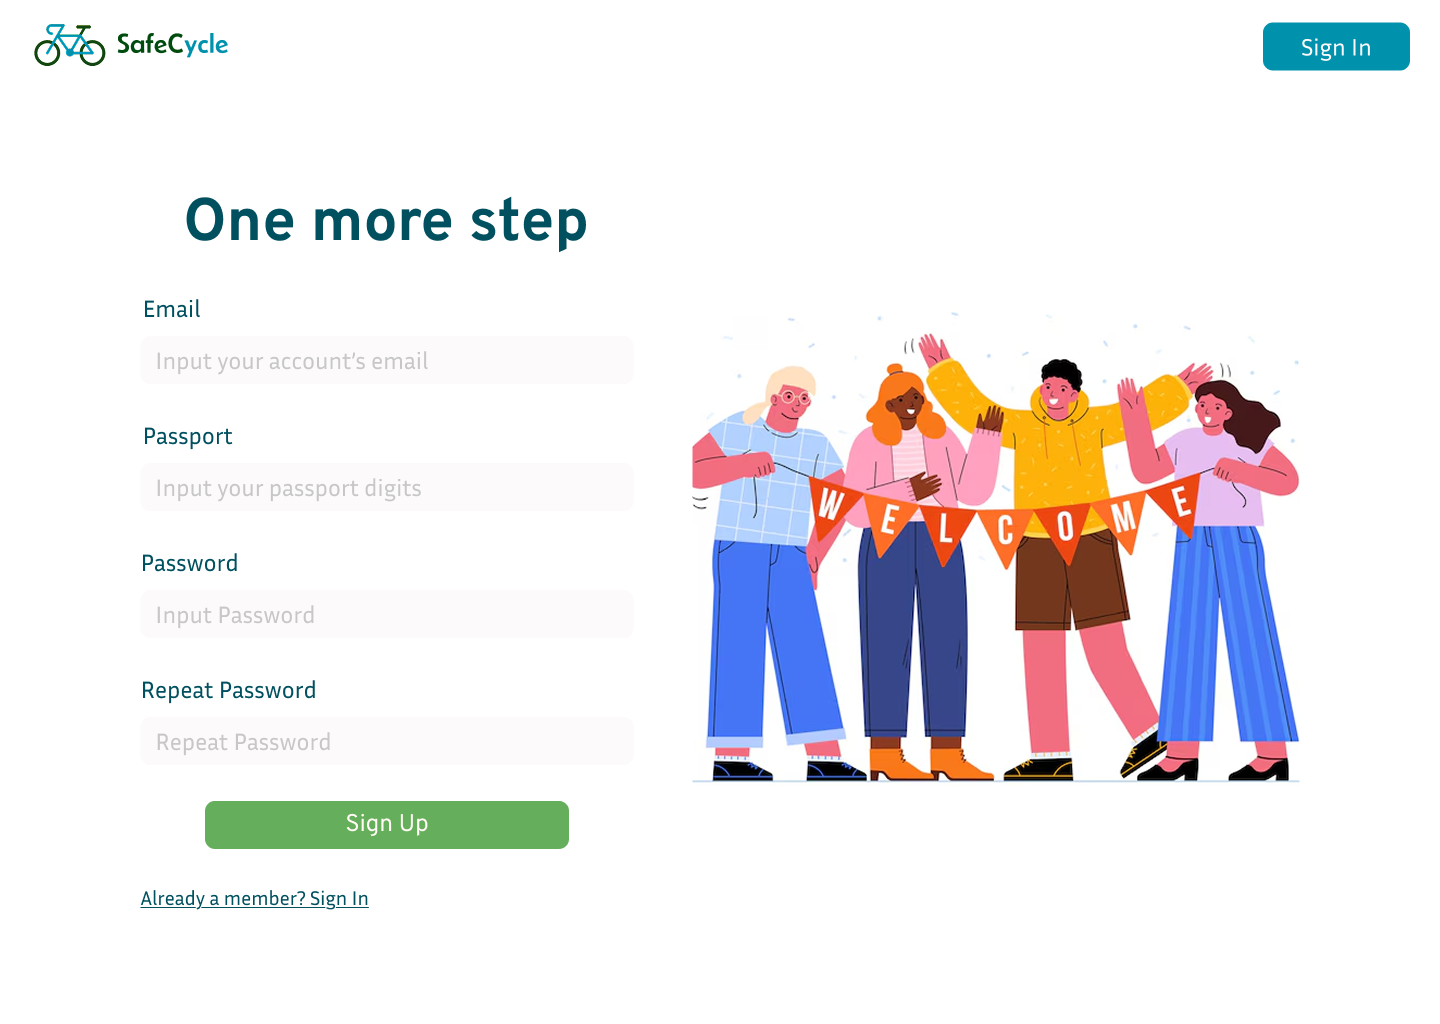
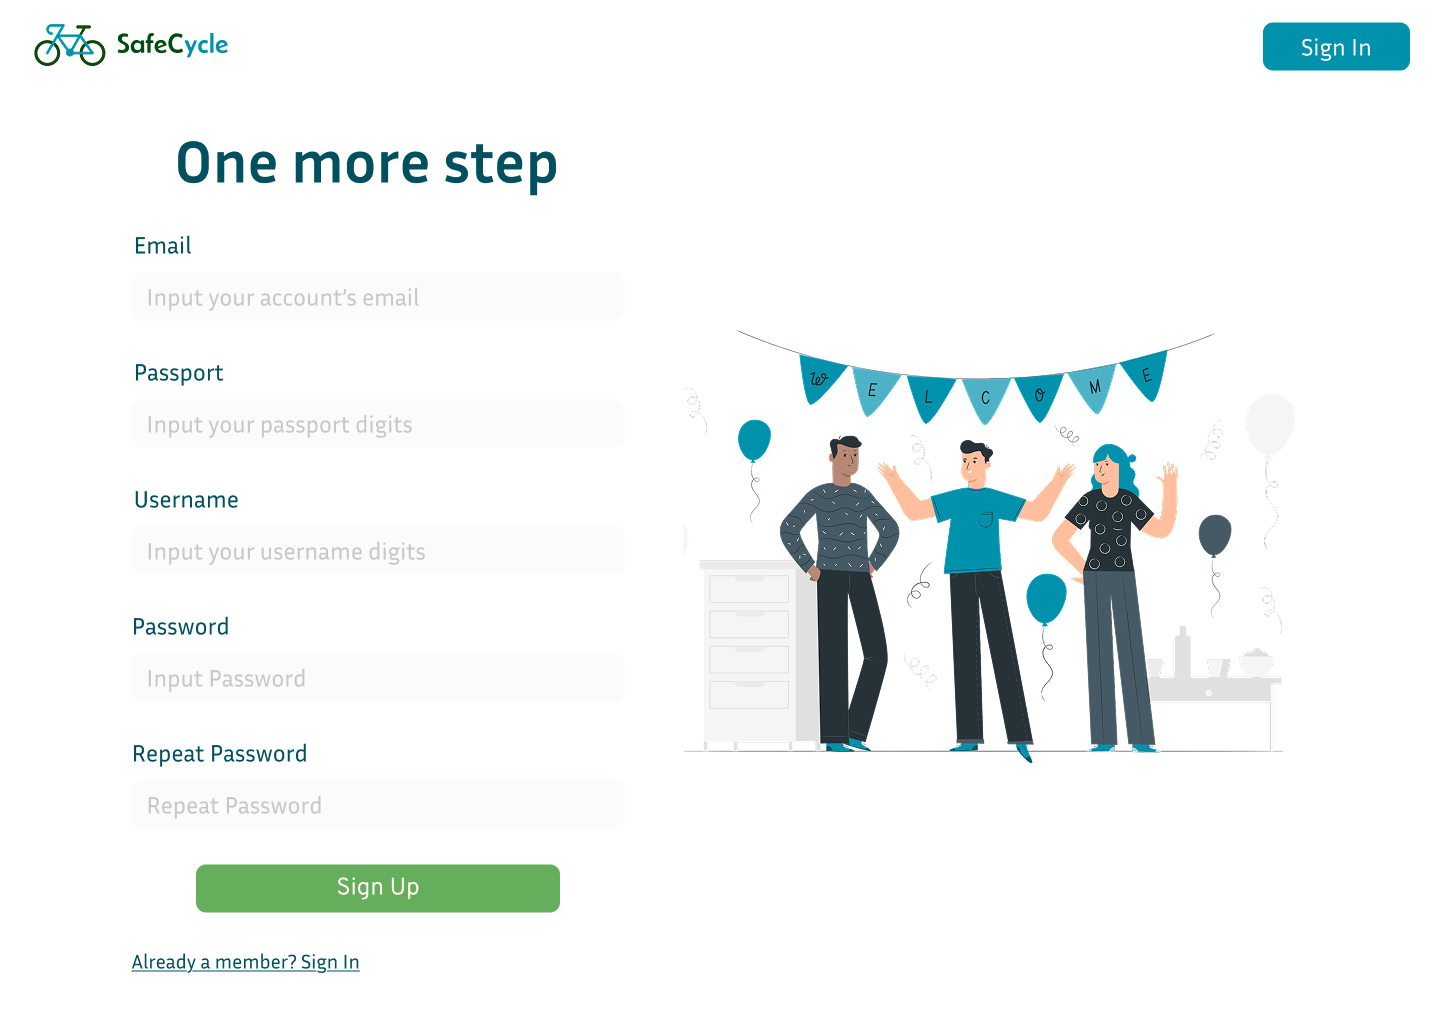
docs: update UXUI images

diff --git a/Report.md b/Report.md
@@ -141,6 +141,10 @@ Para el desarrollo de la TP1 nos hemos dividido como equipo diferentes tareas pa
     - [4.2.3. SEO Tags and Meta Tags](#423-seo-tags-and-meta-tags)
     - [4.2.4. Searching Systems](#424-searching-systems)
     - [4.2.5. Navigation Systems](#425-navigation-systems)
+      - [Páginas Principales](#páginas-principales)
+      - [Opciones de Usuario](#opciones-de-usuario)
+      - [Búsqueda y Navegación](#búsqueda-y-navegación)
+      - [Branding e Identidad](#branding-e-identidad)
   - [4.3. Landing Page UI Design](#43-landing-page-ui-design)
     - [4.3.1. Landing Page Wireframe](#431-landing-page-wireframe)
     - [4.3.2. Landing Page Mock-up](#432-landing-page-mock-up)
@@ -175,6 +179,9 @@ Para el desarrollo de la TP1 nos hemos dividido como equipo diferentes tareas pa
       - [5.2.1.6. Services Documentation Evidence for Sprint Review](#5216-services-documentation-evidence-for-sprint-review)
       - [5.2.1.7. Software Deployment Evidence for Sprint Review](#5217-software-deployment-evidence-for-sprint-review)
       - [5.2.1.8. Team Collaboration Insights during Sprint](#5218-team-collaboration-insights-during-sprint)
+  - [Conclusiones y recomendaciones](#conclusiones-y-recomendaciones)
+  - [Bibliografia](#bibliografia)
+  - [Anexos](#anexos)
 # Student Outcome
 
 | Criterio Especifico | Acciones Realizadas | Conclusiones |
@@ -706,8 +713,6 @@ La estructura de navegación de SafeCycle está diseñada para facilitar el acce
 <img src="assets/images/UXUI/mockup/Manage Bycicles Centers.png" width="400" alt="Mockup Centros de Bicicletas" />
 <img src="assets/images/UXUI/mockup/Manage Centers.png" width="400" alt="Mockup Gestión de Centros" />
 <img src="assets/images/UXUI/mockup/Perfil Developer.png" width="400" alt="Mockup Perfil de Desarrollador" />
-<img src="assets/images/UXUI/mockup/Perfil-1.png" width="400" alt="Mockup Perfil 1" />
-<img src="assets/images/UXUI/mockup/Perfil-2.png" width="400" alt="Mockup Perfil 2" />
 <img src="assets/images/UXUI/mockup/Perfil-3.png" width="400" alt="Mockup Perfil 3" />
 <img src="assets/images/UXUI/mockup/Perfil-4.png" width="400" alt="Mockup Perfil 4" />
 <img src="assets/images/UXUI/mockup/Perfil-5.png" width="400" alt="Mockup Perfil 5" />
@@ -747,7 +752,7 @@ La estructura de navegación de SafeCycle está diseñada para facilitar el acce
 
 ![screenshot de prototipo](assets/images/UXUI/prototype.png)
 
-[link a prototype](https://www.figma.com/proto/XUOywJac5xiviLZTzQRXVC/Aplicaciones-Web---SafeCycle?node-id=2362-1253&p=f&t=lIyIwAwyr9eGUpbR-1&scaling=scale-down&content-scaling=responsive&page-id=13%3A501&starting-point-node-id=2362%3A1866&show-proto-sidebar=1)
+[link a prototype:](https://www.figma.com/proto/XUOywJac5xiviLZTzQRXVC/Aplicaciones-Web---SafeCycle?node-id=2362-1253&p=f&t=lIyIwAwyr9eGUpbR-1&scaling=scale-down&content-scaling=responsive&page-id=13%3A501&starting-point-node-id=2362%3A1866&show-proto-sidebar=1) https://www.figma.com/proto/XUOywJac5xiviLZTzQRXVC/Aplicaciones-Web---SafeCycle?node-id=2362-1253&p=f&t=lIyIwAwyr9eGUpbR-1&scaling=scale-down&content-scaling=responsive&page-id=13%3A501&starting-point-node-id=2362%3A1866&show-proto-sidebar=1
 
 ## 4.6. Domain-Driven Software Architecture
 ### 4.6.1. Software Architecture Context Diagram
